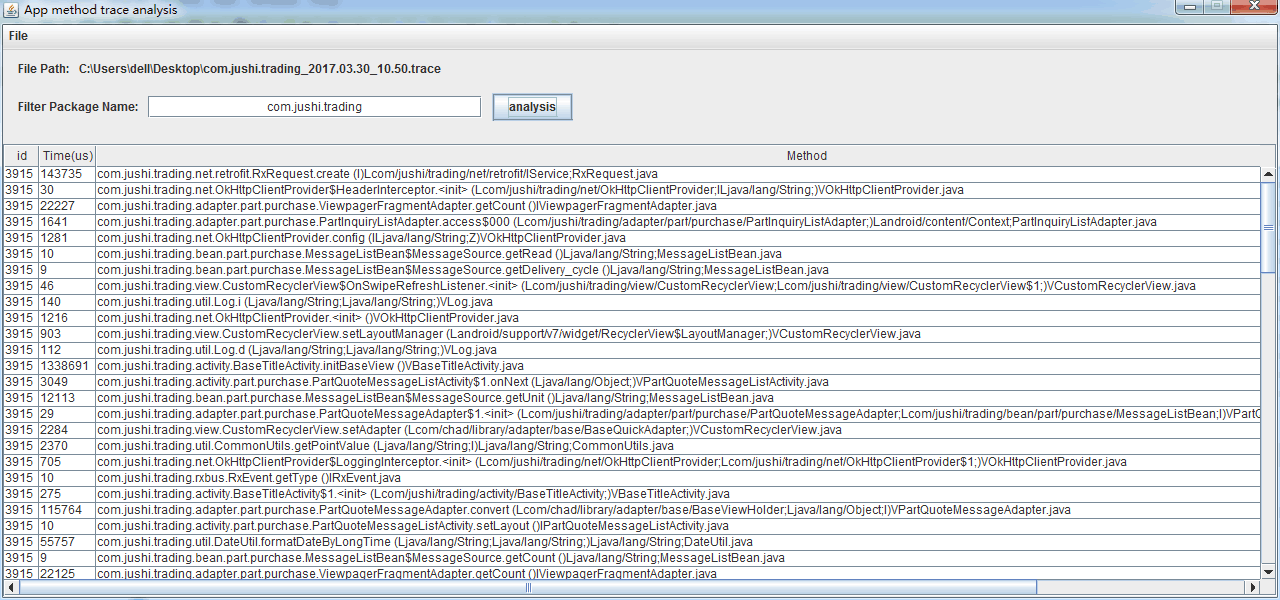
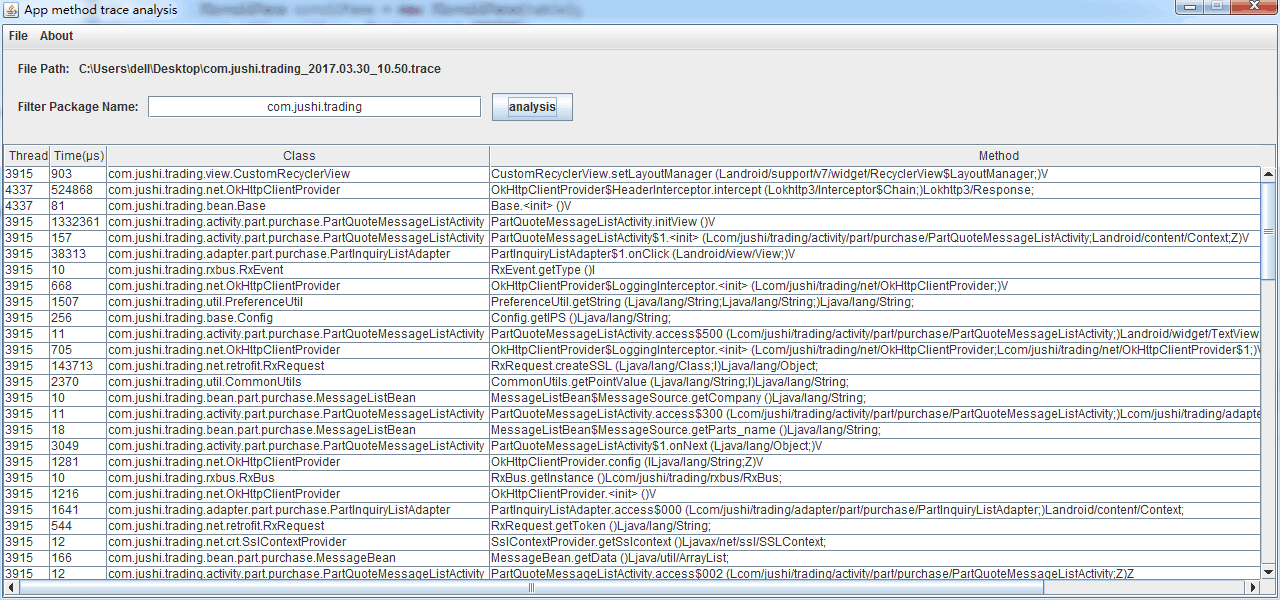
Update gui

diff --git a/MethodTrace/src/InfoBean.java b/MethodTrace/src/InfoBean.java
@@ -6,9 +6,28 @@ public class InfoBean {
 	private int entTime;//11494489
 	private int result;
 	private String key;
+	private String clsName;//PartInquiryListAdapter
+	private String methodName;//PartInquiryListAdapter$1.onClick (Landroid/view/View;)V
+	private String fullClassName;//trading.adapter.part.purchase.PartInquiryListAdapter
 	
-	
-	
+	public String getFullClassName() {
+		return fullClassName;
+	}
+	public void setFullClassName(String fullClassName) {
+		this.fullClassName = fullClassName;
+	}
+	public String getClsName() {
+		return clsName;
+	}
+	public void setClsName(String clsName) {
+		this.clsName = clsName;
+	}
+	public String getMethodName() {
+		return methodName;
+	}
+	public void setMethodName(String methodName) {
+		this.methodName = methodName;
+	}
 	public String getKey() {
 		return key;
 	}

diff --git a/MethodTrace/src/TraceScanner.java b/MethodTrace/src/TraceScanner.java
@@ -61,8 +61,8 @@ public class TraceScanner {
 				while ((lineTxt = br.readLine()) != null) {
 					if (lineTxt.contains(packageName)
 							|| lineTxt.contains(oName)) {
-						System.out.println(lineTxt);
-						result = Utils.convert2Tab(result, lineTxt);
+						//System.out.println(lineTxt);
+						result = Utils.convert2Tab(result, lineTxt.replaceAll("[.]{2,}+", ""));
 						index.add(lineTxt + "\n");
 					}
 				}
